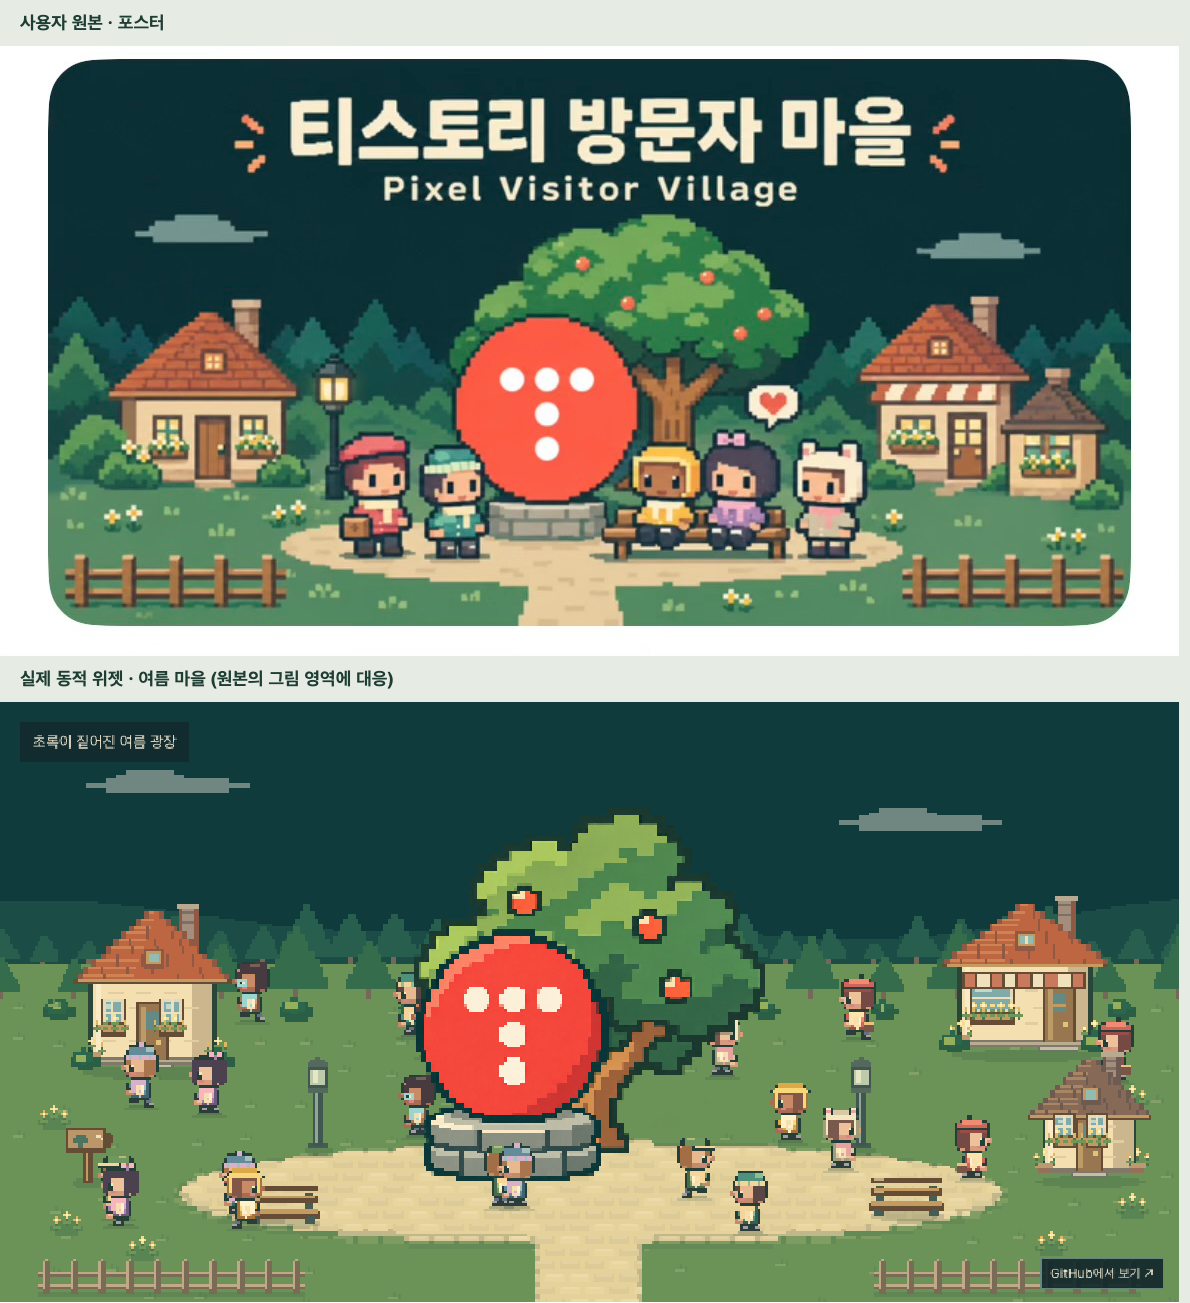
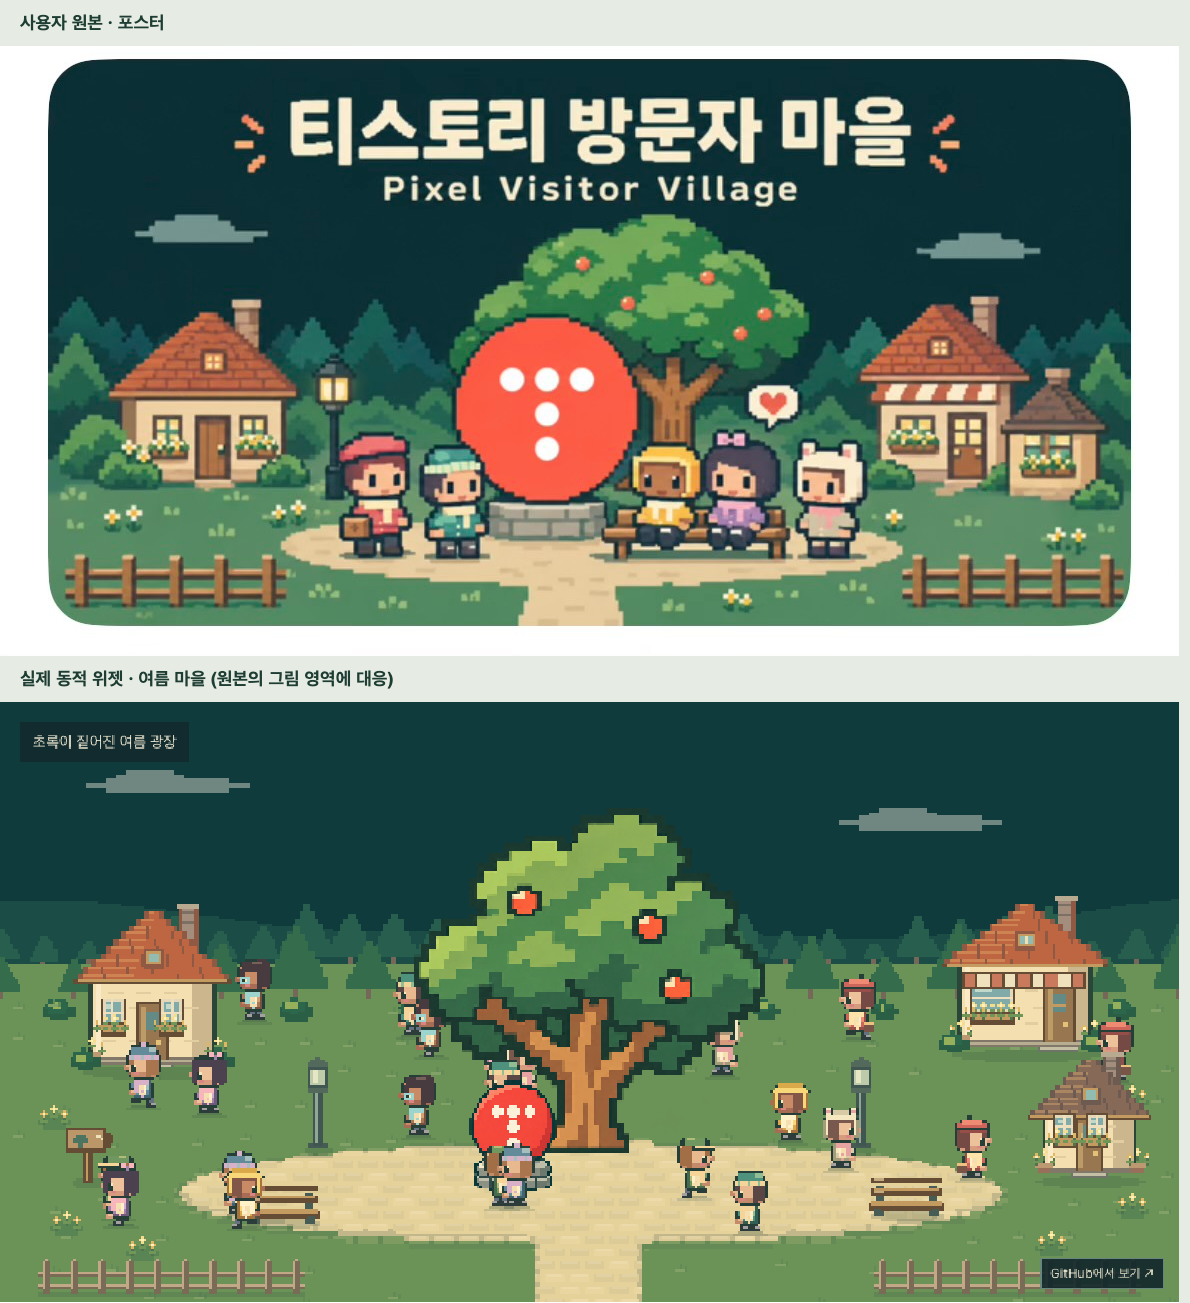
docs: sync village captures with smaller Tistory monument

Changed region(s): [[0.342, 0.7061, 0.5286, 0.921], [0.1866, 0.7368, 0.2487, 0.7982], [0.0933, 0.7982, 0.1555, 0.8596]]

diff --git a/docs/features/visitor-village/reviews/cozy-village-2026-11-25.md b/docs/features/visitor-village/reviews/cozy-village-2026-11-25.md
@@ -58,3 +58,15 @@ ffprobe로20.000초/1920×1080/H.264/30fps/600프레임,AAC/48kHz/stereo,3,813,1
 
 
 후속 소개 미디어 동기화: 마지막 좌표/진단 수정 모듈25226667…로 실제 PixiJS 캡처/최종 MP4를 다시 만들었다. 현재 MP4는3,817,264bytes, SHA-256 b7b02ae192a63cb8b78a8dcec8a405ffc0ff838917ad77e39f3d2da1968124c4다. 이전 문단의 미디어 측정은 중간본의 검증 이력이며, 현재 파일과 최종 검사76/76은 [소개 갱신 기록](intro-refresh-2026-11-25.md)을 따른다.
+
+
+## 후속 검증: 작은 우물 크기의 티스토리 장식
+
[1 lines of base64/hex data omitted]
+
+
+## PR 전달 전 재검증
+
+사용자의 PR 요청으로 원격 상태를 확인했다. 에셋 개편/조형물 축소 실행 코드와 검사는 PR #7에서 main에 이미 병합되어 있었다. 후속 docs/well-monument-qa는 origin/main의17292de를 기준으로 최신 실제 화면과 검수 기록을 동기화한다. 코드나 영상의 추가 변경은 없다.
+
+현재 main 코드로 `pnpm test`146/146,`pnpm build`(타입/앱/독립 위젯),전체Chrome79/79(40.7초),`git diff --check`와변경 문서5개의상대링크 검사를 통과했다. Chrome 결과는 /private/tmp/pvv-well-pr-green. 현재 모듈SHA-256은f3a5147f707bb400f27cbd1671a0694af323485919ca333cd32fd1c6a83ea164이며 위 축소 직후 해시는 이전 검증 이력이다. 소개 영상 비율 재촬영과공개 배포는 이PR에포함하지 않았다.

diff --git a/docs/features/visitor-village/cozy-village-plan.md b/docs/features/visitor-village/cozy-village-plan.md
@@ -87,3 +87,10 @@
 
 
 후속 소개 미디어 동기화: 마지막 좌표/진단 수정 모듈25226667…로 실제 PixiJS 캡처/최종 MP4를 다시 만들었다. 현재 MP4는3,817,264bytes, SHA-256 b7b02ae192a63cb8b78a8dcec8a405ffc0ff838917ad77e39f3d2da1968124c4다. 이전 문단의 미디어 측정은 중간본의 검증 이력이며, 현재 파일과 최종 검사76/76은 [소개 갱신 기록](reviews/intro-refresh-2026-11-25.md)을 따른다.
+
+
+## 후속 요청: 우물처럼 작은 조형물
+
+사용자가 큰 티스토리 로고를 우물처럼 작게 요청해 이전 확대 결정을 대체했다. min(w×.16,h×.22),기존 선형 크기의약44~46%,나무 크기의약30%로 축소한다. 받침 충돌 영역도 .39<x<.48,.80<y<.84로 줄이고 빈 공간에 정상 생성되도록 한다. 원본 PNG와 좌표 기준점은 유지한다. 별도 전체 EGM이나 새 원화 제작은 필요하지 않은 범위 조정으로 기존 명세/설계/검사를 갱신했다. 이전 큰 조형물 화면은 docs/assets/cozy-village/scene-summer-large-monument.png로 보존했다. 기존 소개 영상은 축소 이전 촬영 이력이며 이번 화면 비율 수정에서 재렌더하지 않았다.
+
+후속 최종 검증:단위146/146,타입/빌드,전체Chrome76/76과실제크기/상세/320·375px 캡처 확인,pageerror0. 현재 모듈SHA-256:7ef073a323e7c3da1e50e89c255c9ffa76018e24546feedc7c9ed1257de3a662. 신규 커밋/푸시/공개 배포 없음.

diff --git a/design-qa.md b/design-qa.md
@@ -2,6 +2,9 @@
 
 final result: passed
 
+
+후속 크기 수정: 사용자 요청으로 티스토리 조형물을 이전의약44~46%로 줄였다. 현재 나무 크기의약30%인 작은 우물 비율이며 초기 확대 결정에 우선한다. 현재 링크의 데스크톱/모바일/5계절과 전체/상세 비교 이미지를 다시 캡처했다. 여름/크리스마스/320·375px/상세 화면을 직접 열어 나무의 줄기와 수관이 드러나는지 확인했다. 이전 큰 조형물은 [이력](docs/assets/cozy-village/scene-summer-large-monument.png)으로 보존한다. 아래 최초 개편 당시144개 검증과 확대 설명은 이전 단계의 이력이다. 현재 소개 영상은 축소 이전 촬영본으로 유지한다. 후속 최종 검사:단위146/146,타입/빌드,전체Chrome76/76 통과,pageerror0. 결과 /private/tmp/pvv-well-size-green.
+
 2026-11-25 사용자 첨부 [원본](docs/assets/cozy-village-reference.jpg)을 선택된 아트 디렉션으로 적용했다. 실제 production 위젯은 http://127.0.0.1:5201/install.html?lang=ko 에 있다. 기본은Christmas,비교 캡처는여름/시연24명/일시정지다. 새 에셋은 로컬 반영 상태이며 이번 변경의 공개 배포는 수행하지 않았다.
 
 ## 비교 입력과 수정

diff --git a/docs/assets/README.md b/docs/assets/README.md
@@ -13,6 +13,8 @@
 
 ## 첨부 콘셉트로 개편한 현재 마을 (2026-11-25)
 
+후속 요청으로 티스토리 조형물을 작은 우물 크기로 줄인 화면을 다시 촬영했다. `cozy-village/scene-summer-large-monument.png`는 축소 전 이력이다. 소개 영상은 비율 축소 이전 촬영본이다.
+
 현재 README 계절 갤러리는 [cozy-village/](cozy-village/)의 실제 로컬 production 화면을 사용한다. 크리스마스/봄/여름/가을/겨울은 각각935×476px이고 데스크톱은1487×1058px,모바일은320/375×780px 뷰포트다. Google Chrome headless/DPR1에서 준비 완료 후 움직임을 멈추고 시연24명 상태로 테마를 바꿨다. 이미지로 위젯을 대체하지 않았다.
 
 [전체 비교](cozy-village/comparison.png)는 사용자 포스터와 실제 여름 위젯을 같은1179px 표시 폭으로 놓았다. [상세 비교](cozy-village/focus-landmarks.png)는 두 원본을 리샘플링하지 않은430×390px 크롭이다. 서로 다른 포스터/동적 카메라이므로 픽셀 단위 복제나 동일 인원 배치 비교가 아니다.

diff --git a/docs/features/visitor-village/tasks.md b/docs/features/visitor-village/tasks.md
@@ -1,5 +1,10 @@
 # 진행 상태
 
+## 티스토리 장식 크기 후속 수정
+
+- [x] 사용자 요청대로 작은 우물 비율로 축소하고 받침 충돌 영역 조정.
+- [x] 단위146/146,타입/빌드,전체Chrome76/76과 실제 데스크톱/모바일 화면 확인. 새 비율은 로컬 반영이며 공개 배포 전이다.
+
 ## 2026-11-25 첨부 콘셉트 기반 에셋 전면 수정
 
 - [x] 현재 에셋 평가와 사용자 첨부 콘셉트/수정 요청 확인.
